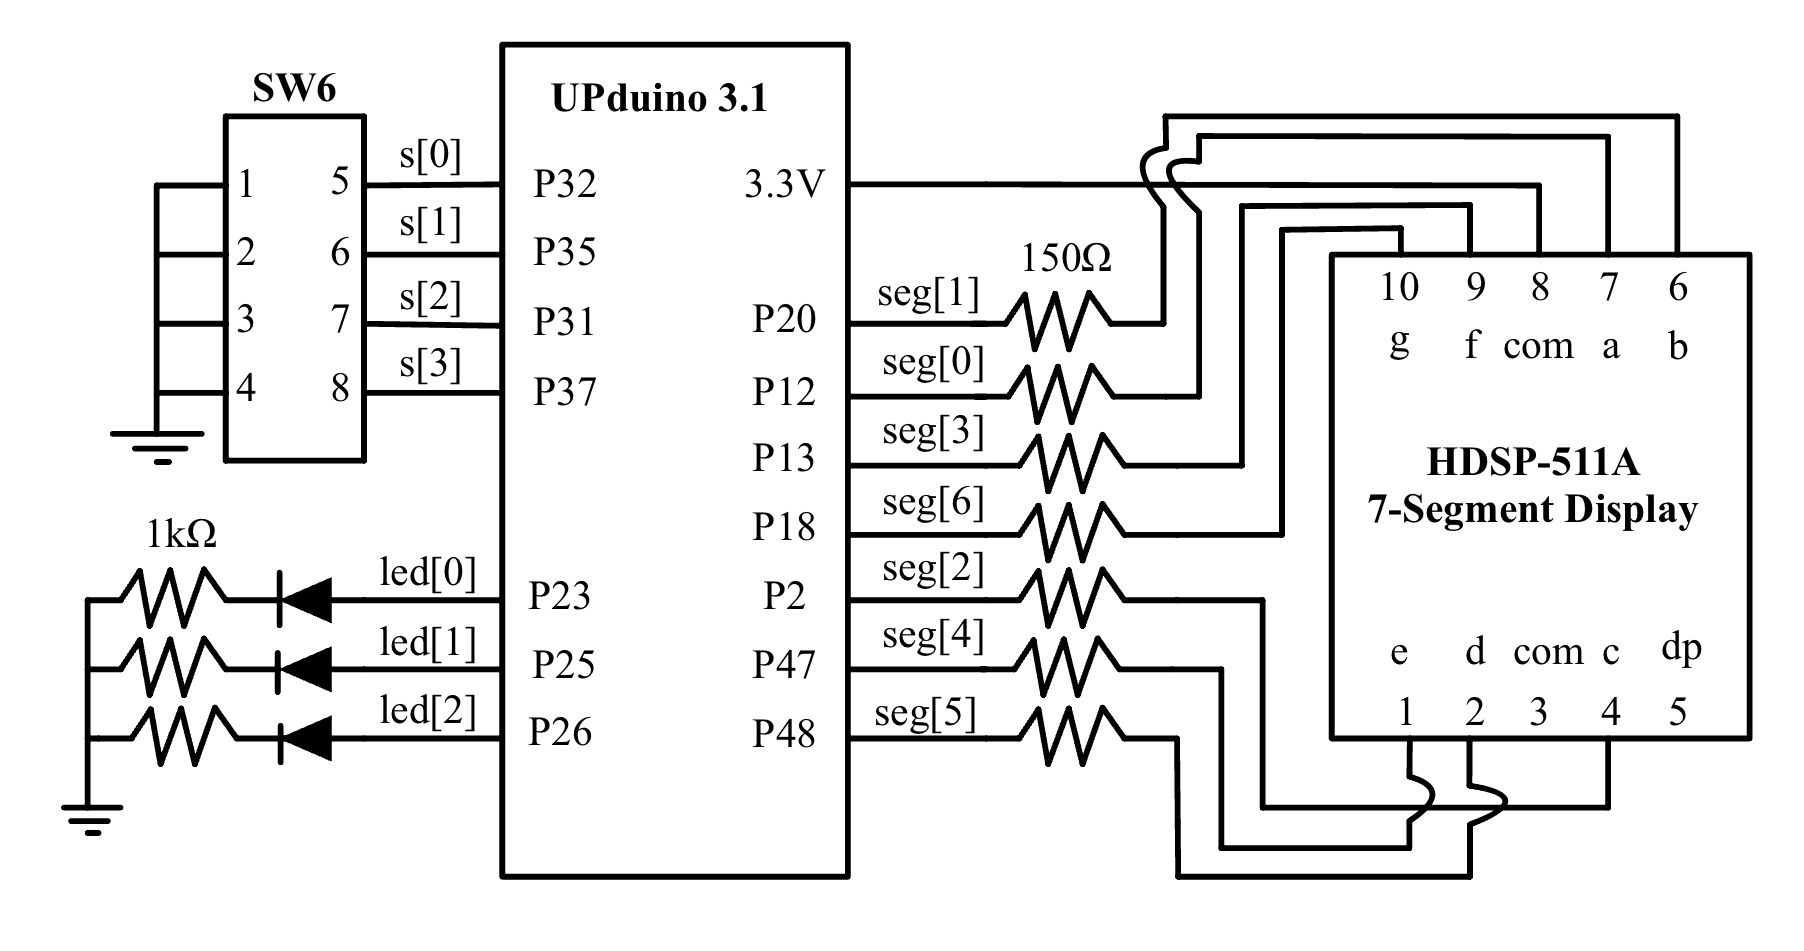
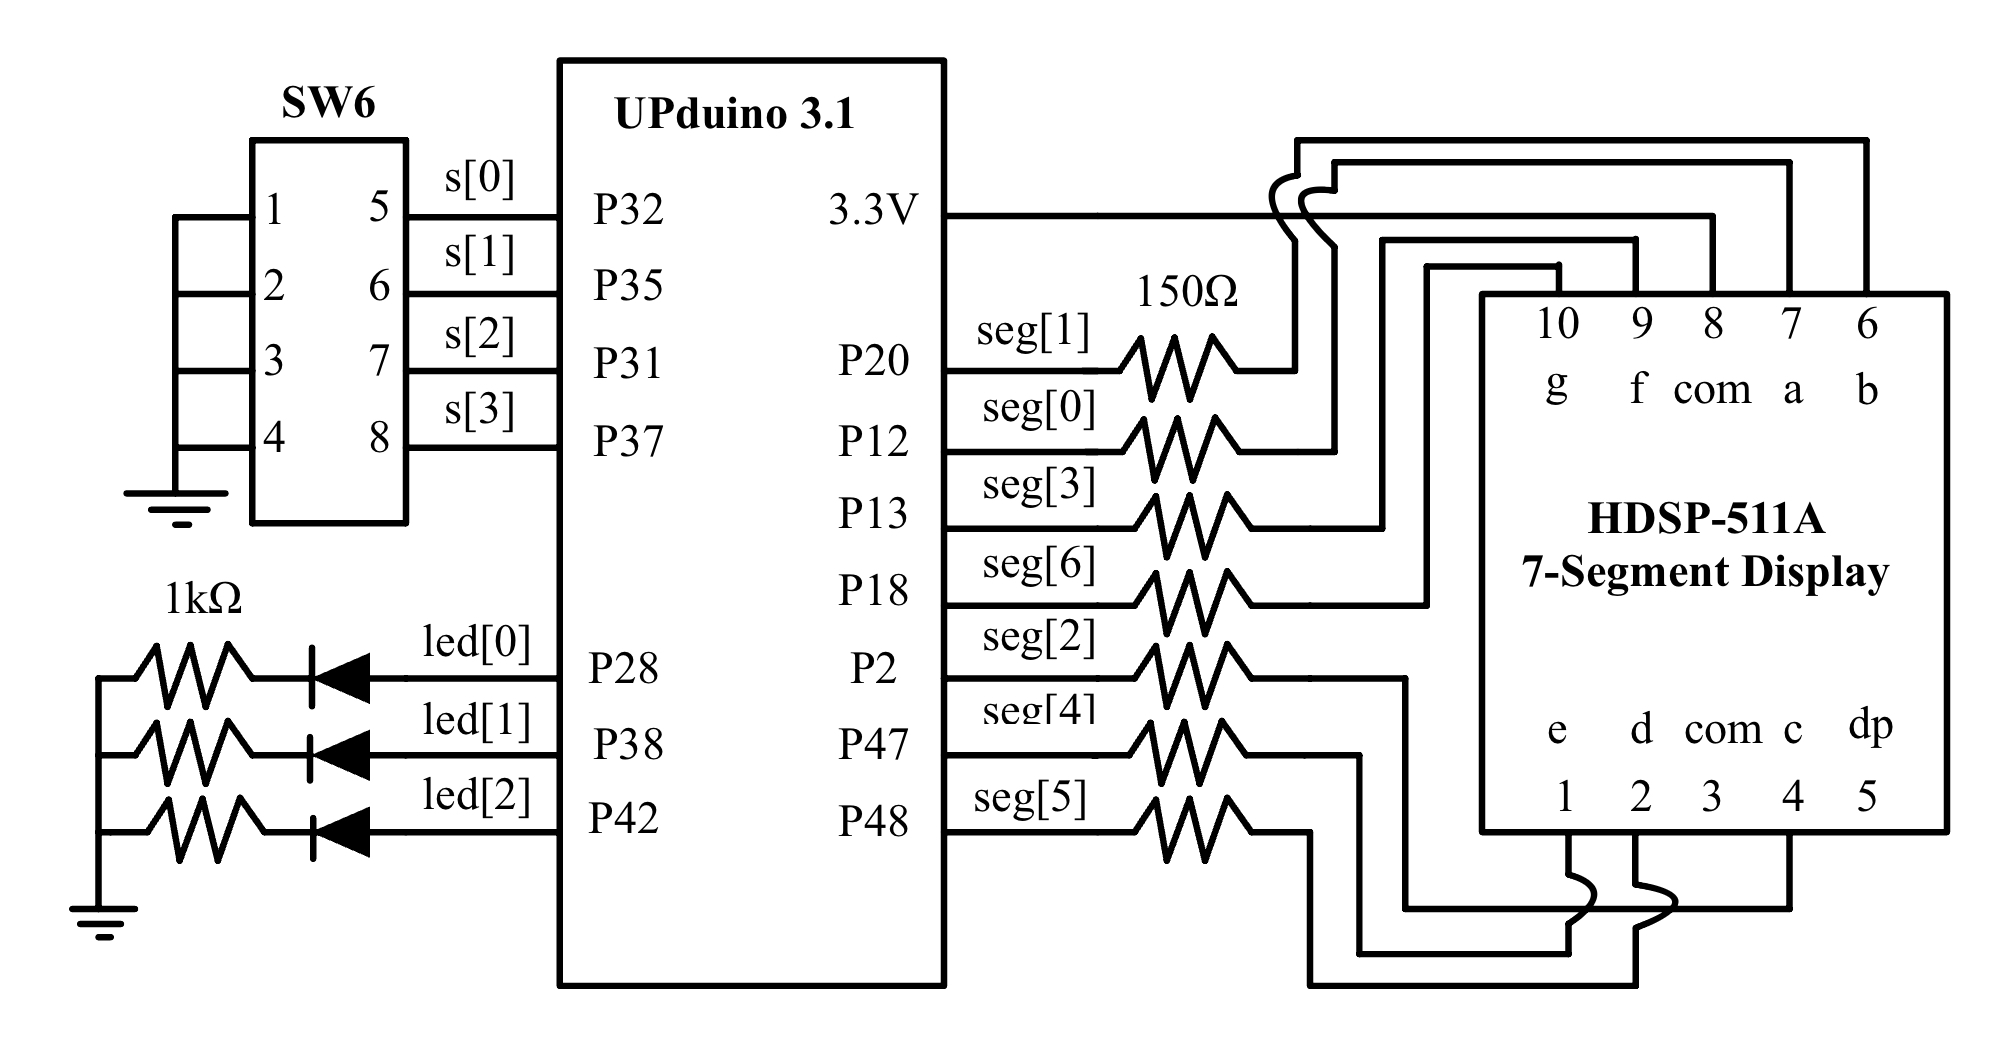
change photo

Changed region(s): [[0.2794, 0.0305, 0.9933, 0.9453], [0.0621, 0.061, 0.3415, 0.5184], [0.031, 0.5489, 0.3415, 0.9148]]

diff --git a/_site/index.html b/_site/index.html
@@ -241,7 +241,7 @@ ul.task-list li input[type="checkbox"] {
     }
       var localhostRegex = new RegExp(/^(?:http|https):\/\/localhost\:?[0-9]*\//);
       var mailtoRegex = new RegExp(/^mailto:/);
-        var filterRegex = new RegExp('/' + window.location.host + '/');
+        var filterRegex = new RegExp("https:\/\/IvanJimenezPineda4\.github\.io\/Personal-Portfolio\/");
       var isInternal = (href) => {
           return filterRegex.test(href) || localhostRegex.test(href) || mailtoRegex.test(href);
       }

diff --git a/_site/blog.html b/_site/blog.html
@@ -338,7 +338,7 @@ Ivan Jimenez Pineda
     }
       var localhostRegex = new RegExp(/^(?:http|https):\/\/localhost\:?[0-9]*\//);
       var mailtoRegex = new RegExp(/^mailto:/);
-        var filterRegex = new RegExp('/' + window.location.host + '/');
+        var filterRegex = new RegExp("https:\/\/IvanJimenezPineda4\.github\.io\/Personal-Portfolio\/");
       var isInternal = (href) => {
           return filterRegex.test(href) || localhostRegex.test(href) || mailtoRegex.test(href);
       }
